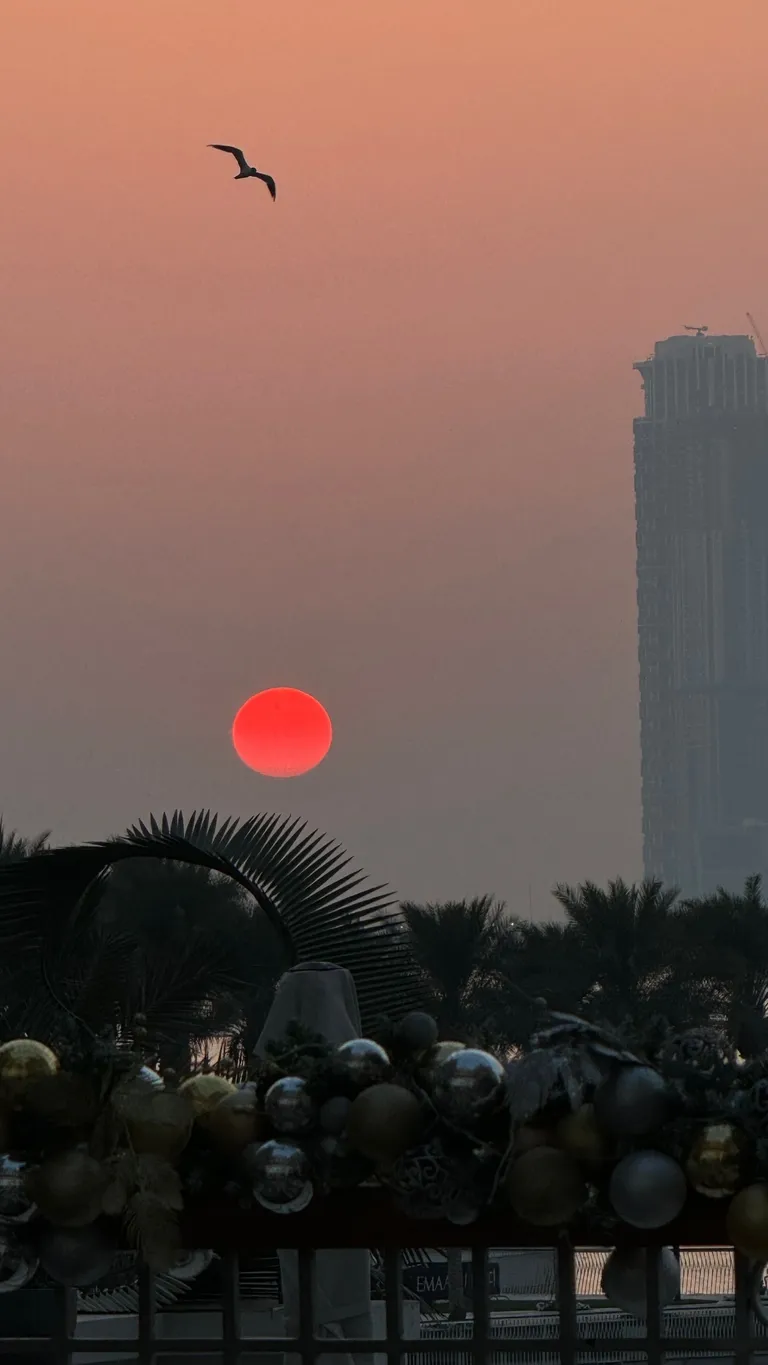
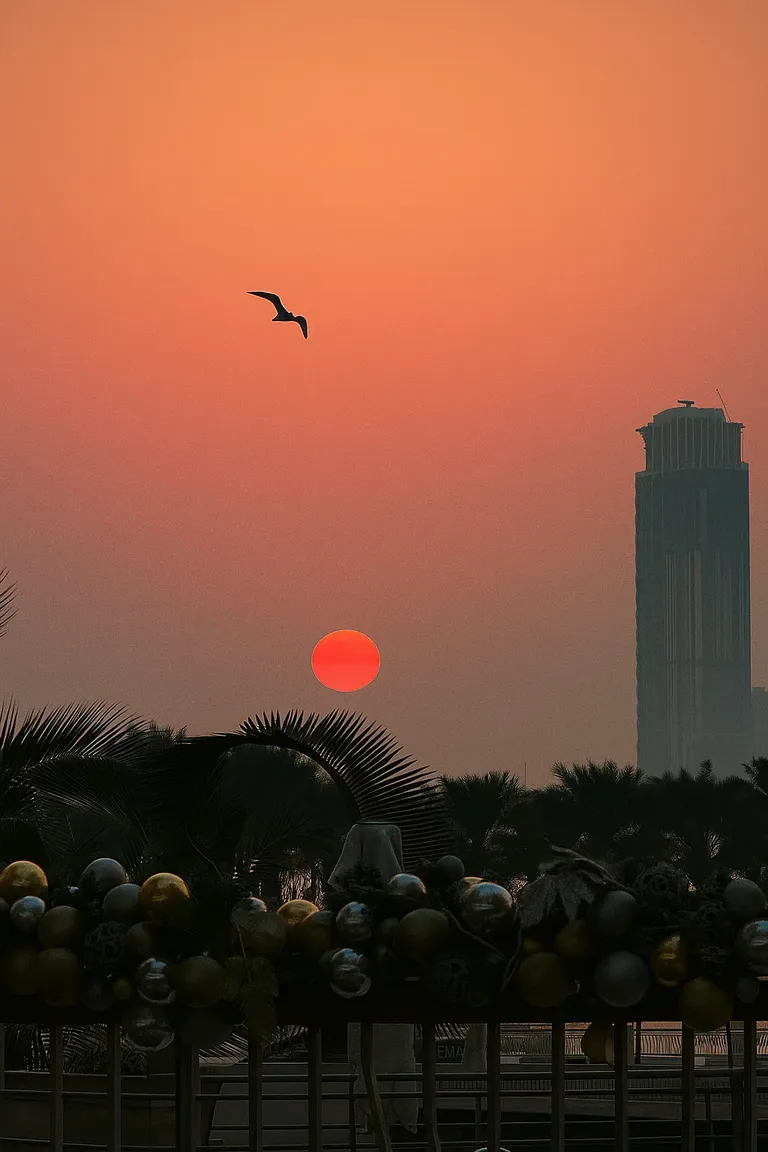
background swap + resizer

diff --git a/resizer.py b/resizer.py
@@ -1,0 +1,34 @@
+import os
+from PIL import Image
+
+# Папка з твоїми оригінальними зображеннями
+INPUT_DIR = "images_webp"
+# Куди зберігати результати
+OUTPUT_DIR = "output"
+
+# Які ширини тобі потрібні
+SIZES = [480, 768, 1080]
+
+# Переконайся, що вихідна папка існує
+os.makedirs(OUTPUT_DIR, exist_ok=True)
+
+# Пройти по всіх файлах у вхідній папці
+for filename in os.listdir(INPUT_DIR):
+    if filename.endswith(".webp") or filename.endswith(".jpg") or filename.endswith(".png"):
+        img_path = os.path.join(INPUT_DIR, filename)
+        with Image.open(img_path) as img:
+            for width in SIZES:
+                # Обчислити висоту, зберігаючи співвідношення сторін
+                aspect_ratio = img.height / img.width
+                height = int(width * aspect_ratio)
+                resized_img = img.resize((width, height), Image.LANCZOS)
+
+                # Зберегти з новим іменем
+                base_name, ext = os.path.splitext(filename)
+                new_filename = f"{base_name}_{width}w.webp"
+                output_path = os.path.join(OUTPUT_DIR, new_filename)
+                resized_img.save(output_path, "WEBP", quality=80)
+
+                print(f"✔ Saved: {output_path}")
+
+print("✅ Усі зображення оброблено й збережено у 'output/'")
